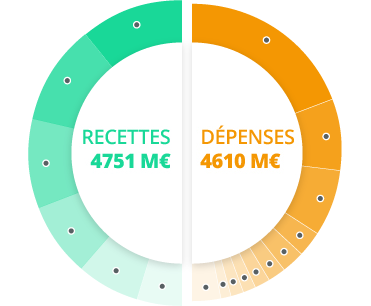
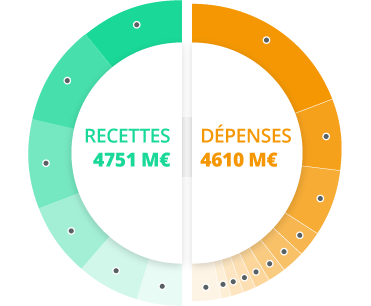
Added alternative budget pie

Changed region(s): [[0.2075, 0.4118, 0.4744, 0.5588], [0.5337, 0.4118, 0.8005, 0.4706], [0.5337, 0.5, 0.7709, 0.5588]]

diff --git a/app/index.html b/app/index.html
@@ -32,10 +32,10 @@
 
     <!--[if lt IE 9]>
         <!-- build:js scripts/ie.js-->
-            <script src='bower_components/es5-shim/es5-shim.js'></script>
-            <script src='bower_components/json3/lib/json3.min.js'></script>
-            <script src="bower_components/r2d3/r2d3.js"></script>
-            <script src="bower_components/raphael/raphael.js"></script>
+            <script charset="utf-8" src='bower_components/es5-shim/es5-shim.js'></script>
+            <script charset="utf-8" src='bower_components/json3/lib/json3.min.js'></script>
+            <script charset="utf-8" src="bower_components/r2d3/r2d3.js"></script>
+            <script charset="utf-8" src="bower_components/raphael/raphael.js"></script>
         <!-- endbuild-->
     <![endif]-->
 
@@ -67,7 +67,7 @@
         var ir = responsiveIframe();
         ir.allowResponsiveEmbedding();
         // Remove tap delay on touch screen
-        window.addEventListener('load', function() {
+        $(document).on('ready', function() {
             if(window.FastClick != undefined) FastClick.attach(document.body);
         }, false);
     </script>

diff --git a/app/styles/main.scss b/app/styles/main.scss
@@ -279,6 +279,12 @@ html body {
             width:371px;
             margin-left: (-371px/2);
             z-index:10;
+            opacity:1;
+            @include transition(opacity 600ms);
+
+            &.pie-others {
+                opacity:0;
+            }
         }
 
         .js-bound-draw {
@@ -289,6 +295,13 @@ html body {
         &.show-others {
             .list-depenses.with-absolute {
                 @include opacity(0.1);
+            }
+
+            .pie {
+                opacity:0;
+                &.pie-others {
+                    opacity:1;
+                }
             }
 
             .others {

diff --git a/app/views/main.html b/app/views/main.html
@@ -69,6 +69,8 @@
     <h2 class="top-50 bottom-30 text-center">Budget global</h2>
 
     <img src="./images/charts/global.png" class="pie" />
+    <img src="./images/charts/global_others.png" class="pie pie-others" />
+
     <ul class="text-right list-unstyled list-recettes with-absolute">
       <li ng-repeat="item in budget | filter:{type: 'recettes', visible: 1}">
         {{item.label}}
